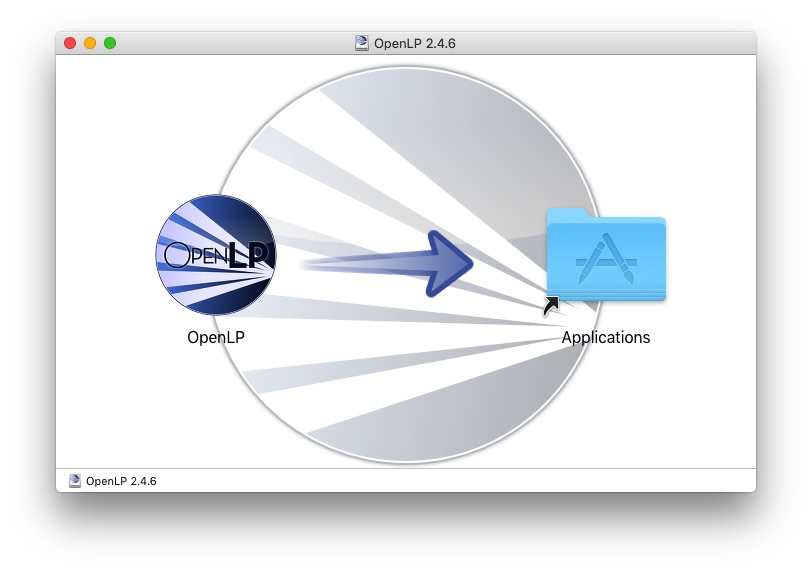
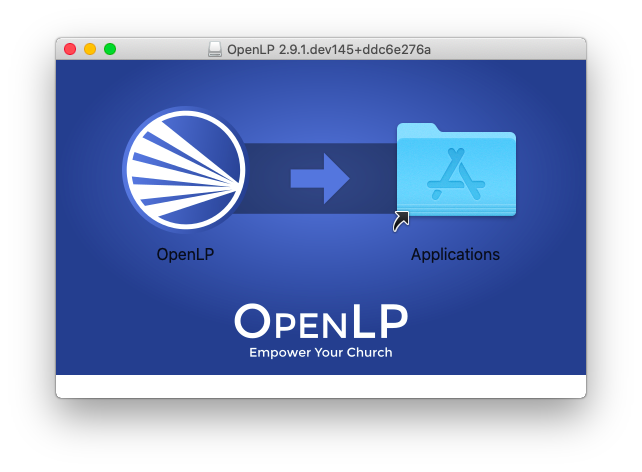
Updated the macOS installation guide to match new macOS install hurdles and describe new required rights for ppt and keynote control

diff --git a/manual/source/install_mac.rst b/manual/source/install_mac.rst
@@ -2,45 +2,58 @@ Installing OpenLP on macOS
 ==========================
 
 If you have not already downloaded the correct file from the `OpenLP website`_, download it now. Then double click on
-the .dmg file. This will open a window with two icons: An OpenLP icon and an Applications Folder icon. To install
-OpenLP, simply drag the OpenLP icon over to the Applications folder icon and you will be ready to use OpenLP. OpenLP
-will be available in your Applications folder.
+the .dmg file. This will open a window with two icons: An OpenLP icon and an Applications Folder icon. 
 
 .. image:: pics/install-macos-01-dnd-install.png
 
-With the release of Mac OS X 10.7.5, applications that are not signed by a developer registered with Apple will not run
-by default. In order to run OpenLP the first time after installation, you will need to "teach" your computer to trust
-the OpenLP application.
+To install OpenLP, simply drag the OpenLP icon over to the Applications folder icon. A window will show the installation
+progress.
 
-First, go to the :guilabel:`Applications` folder and right-click on OpenLP (two-finger click on touch pads, or
-:kbd:`Control+click` if you don't have a right mouse button). This will bring up a context menu as shown. Select "Open"
-from that menu.
+.. image:: pics/install-macos-02-install-progress.png
 
-.. image:: pics/install-macos-02-open.png
-   :width: 40%
-   :align: center
-
-Your computer may then verify the application, which will take a few seconds.
+Since OpenLP is an Open Source project we do not have the finacial means to buy an official Apple Developer certificate,
+which means that macOS will refuse to open OpenLP because it has not been signed by an official Apple Developer
+certificate. We do assure you that if you downloaded OpenLP from the `OpenLP website`_, it is safe to install and run.
+To start OpenLP open the :guilabel:`Applications` folder, find the OpenLP icon an click it. The first time you start
+OpenLP a window will open showing the verification progress.
 
 .. image:: pics/install-macos-03-verifying.png
 
-You will see a prompt asking whether you are sure you want to open "OpenLP", noting that it is from an unidentified
-developer. It will look very similar to the pictured dialog.
+The verification will fail and show this warning:
 
-To run OpenLP you simply need to click "Open". In future, you can simply run OpenLP just like any other application
-(double-click in Applications, or keep it in the Dock for easy access) without going through these steps.
+.. image:: pics/install-macos-04-verification-failed.png
 
-.. image:: pics/install-macos-04-unidentified-developer.png
+Click :guilabel:`OK` to close the window. You will now have to tell macOS to trust OpenLP despite this.
+Open the Apple menu and choose :guilabel:`System Preferences...`. Now click :guilabel:`Security & Privacy` as marked
+below.
 
-You may need to repeat similar steps when you upgrade OpenLP (once per upgrade).
+.. image:: pics/install-macos-05-system-pref.png
 
-If the steps above don't work, you may need to set your GateKeeper settings (under :guilabel:`Security && Privacy`) to
-"Mac App Store and identified developers", as seen below.
+In the default :guilabel:`General` tab you should now see a window similar to the one below. Click the
+:guilabel:`Open Anyway` button to open OpenLP.
 
-.. image:: pics/install-macos-05-system-menu.png
+.. image:: pics/install-macos-06-security-privacy.png
 
-.. image:: pics/install-macos-06-settings.png
+macOS will now try to open OpenLP again. Again a window will open showing the verification progress.
 
-.. image:: pics/install-macos-07-security-and-privacy.png
+.. image::  pics/install-macos-07-verifying-again.png
+
+A window will now open with a warning that OpenLP is unsafe. Click :guilabel:`Open` to open OpenLP.
+
+.. image::  pics/install-macos-08-open-anyway.png
+
+The first time OpenLP runs you will be prompted about granting some extra rights to OpenLP. OpenLP uses these rights to
+control PowerPoint and Keynote presentation programs. Click :guilabel:`OK` to allow this.
+
+.. image::  pics/install-macos-09-allow-finder-access.png
+
+.. image::  pics/install-macos-10-allow-system-event-access.png
+
+The first time you start a PowerPoint or Keynote presentation from OpenLP you will also be asked to grant rights to
+those applications as can be seen below. Again click :guilabel:`OK` to allow this.
+
+.. image::  pics/install-macos-11-allow-powerpoint-access.png
+
+.. image::  pics/install-macos-12-allow-keynote-access.png
 
 .. _OpenLP website: https://openlp.org/
